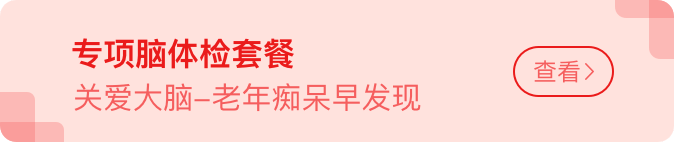
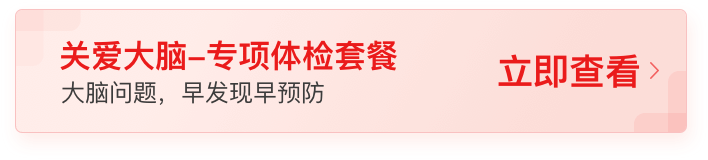
[U] 更新静态资源

diff --git a/src/pages/me/me.jsx b/src/pages/me/me.jsx
@@ -1,10 +1,10 @@
 import Taro, { Component } from '@tarojs/taro'
 import { View, Button, Text, Label } from '@tarojs/components'
 import { connect } from '@tarojs/redux'
-import avatar from '../../images/avatar.png'
+import avatar from '../../images/avatar.svg'
 
 import './me.less'
-import { AtIcon } from 'taro-ui'
+import { AtIcon, AtAvatar } from 'taro-ui'
 
 // @connect(({ user }) => ({
 //     user
@@ -27,7 +27,7 @@ export default class Me extends Component {
             phoneNumber: '************'
         }
     }
-    
+
     componentWillMount() {
         Taro.getStorage({ key: 'phone_number' })
             .then(res => {
@@ -50,7 +50,8 @@ export default class Me extends Component {
                 lineHeight: this.state.navHeight + 'px'
             }}>我的</View>
             <View className="user">
-                <Image src={this.props.user.avatarUrl} className="avatar" />
+                {/* <Image src={this.props.user.avatarUrl} className="avatar" /> */}
+                <AtAvatar circle image={avatar}></AtAvatar>
                 <View className="info">
                     <View className="phone">{this.state.phoneNumber}</View>
                     {/*<View className="edit" onClick={() => {

diff --git a/src/pages/index/index.less b/src/pages/index/index.less
@@ -1,6 +1,7 @@
 .indexPng {
-    width : 100vw;
-    height: 2822px;
+    width        : 100vw;
+    height       : 2822px;
+    margin-bottom: 160px;
 }
 
 .topBanner {
@@ -24,8 +25,8 @@
 
 .entrance {
     display    : block;
-    width      : 680px;
-    height     : 142px;
+    width      : 708px;
+    height     : 160px;
     margin-left: 33px;
 }
 

diff --git a/src/pages/index/index.jsx b/src/pages/index/index.jsx
@@ -45,7 +45,8 @@ class Test extends Component {
         <Image src={indexPng} className="indexPng" />
 
         <View style={{
-          margin: '30px auto'
+          position: 'fixed',
+          bottom: 0
         }}>
           <Image src={entrancePng} class="entrance" onClick={this.gotoAppointment} />
         </View>

diff --git a/src/pages/prod/prod.less b/src/pages/prod/prod.less
@@ -21,12 +21,11 @@
 .introBlock{
     background: white;
     padding-top: 30px;
-
 }
 .introPng{
     display: block;
     width: 675px;
-    height: 3869px;
+    height: 4254px;
     margin-left:37.5px;
 }
 
